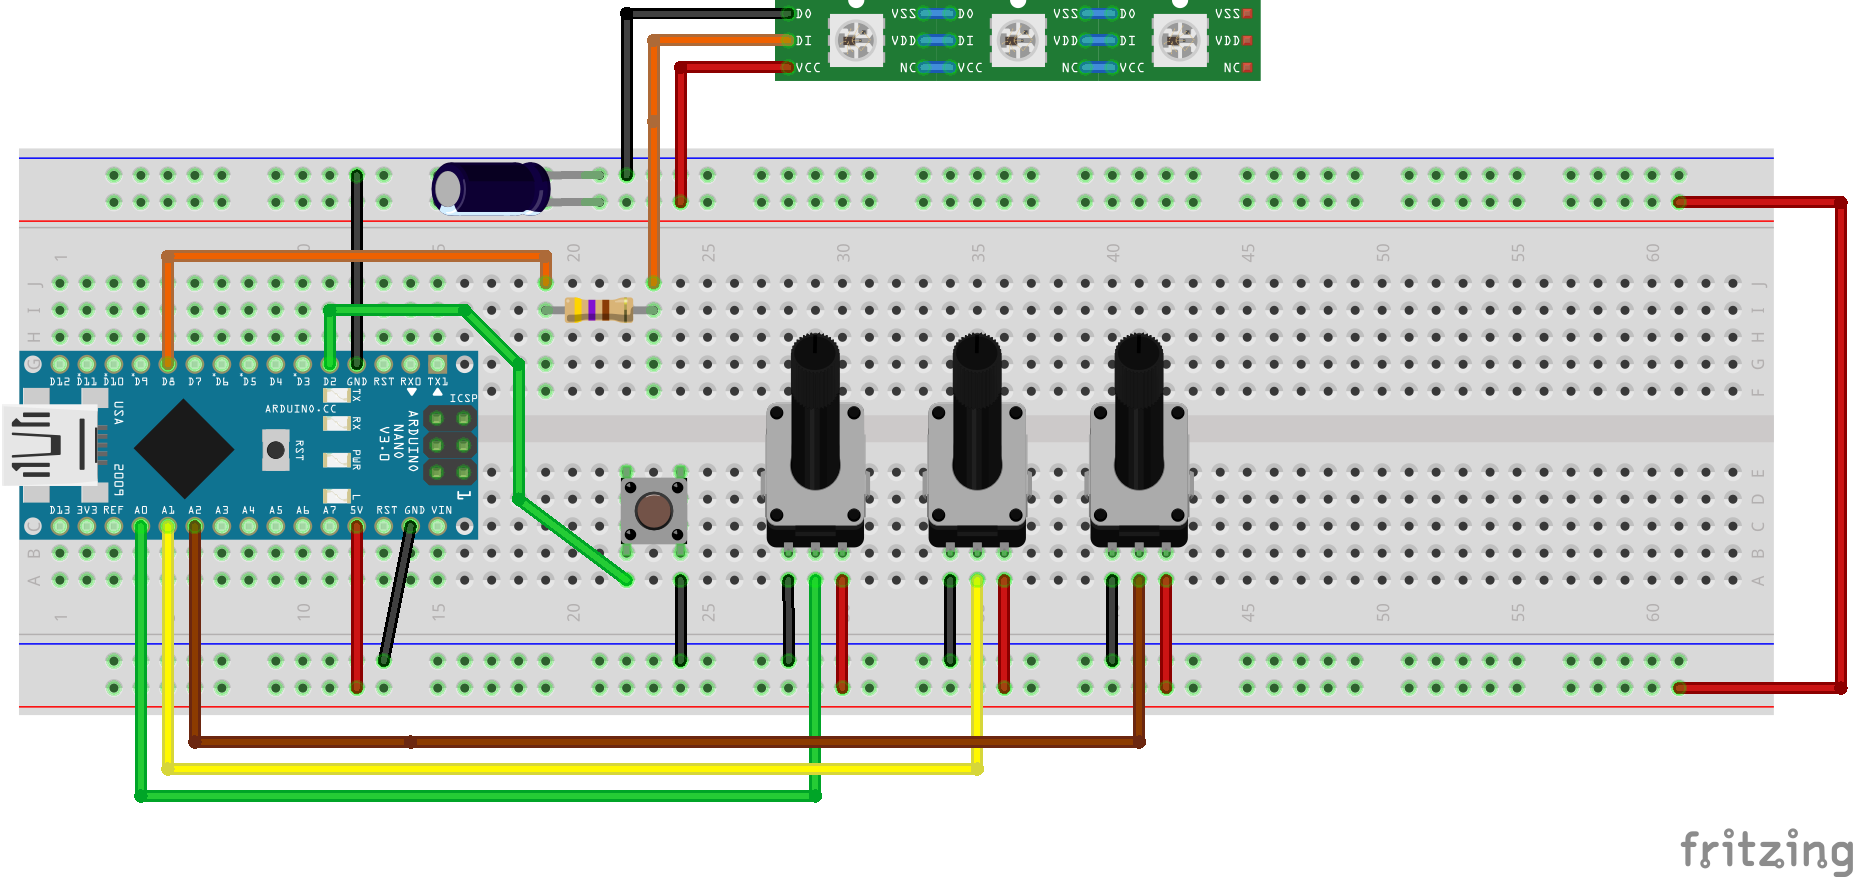
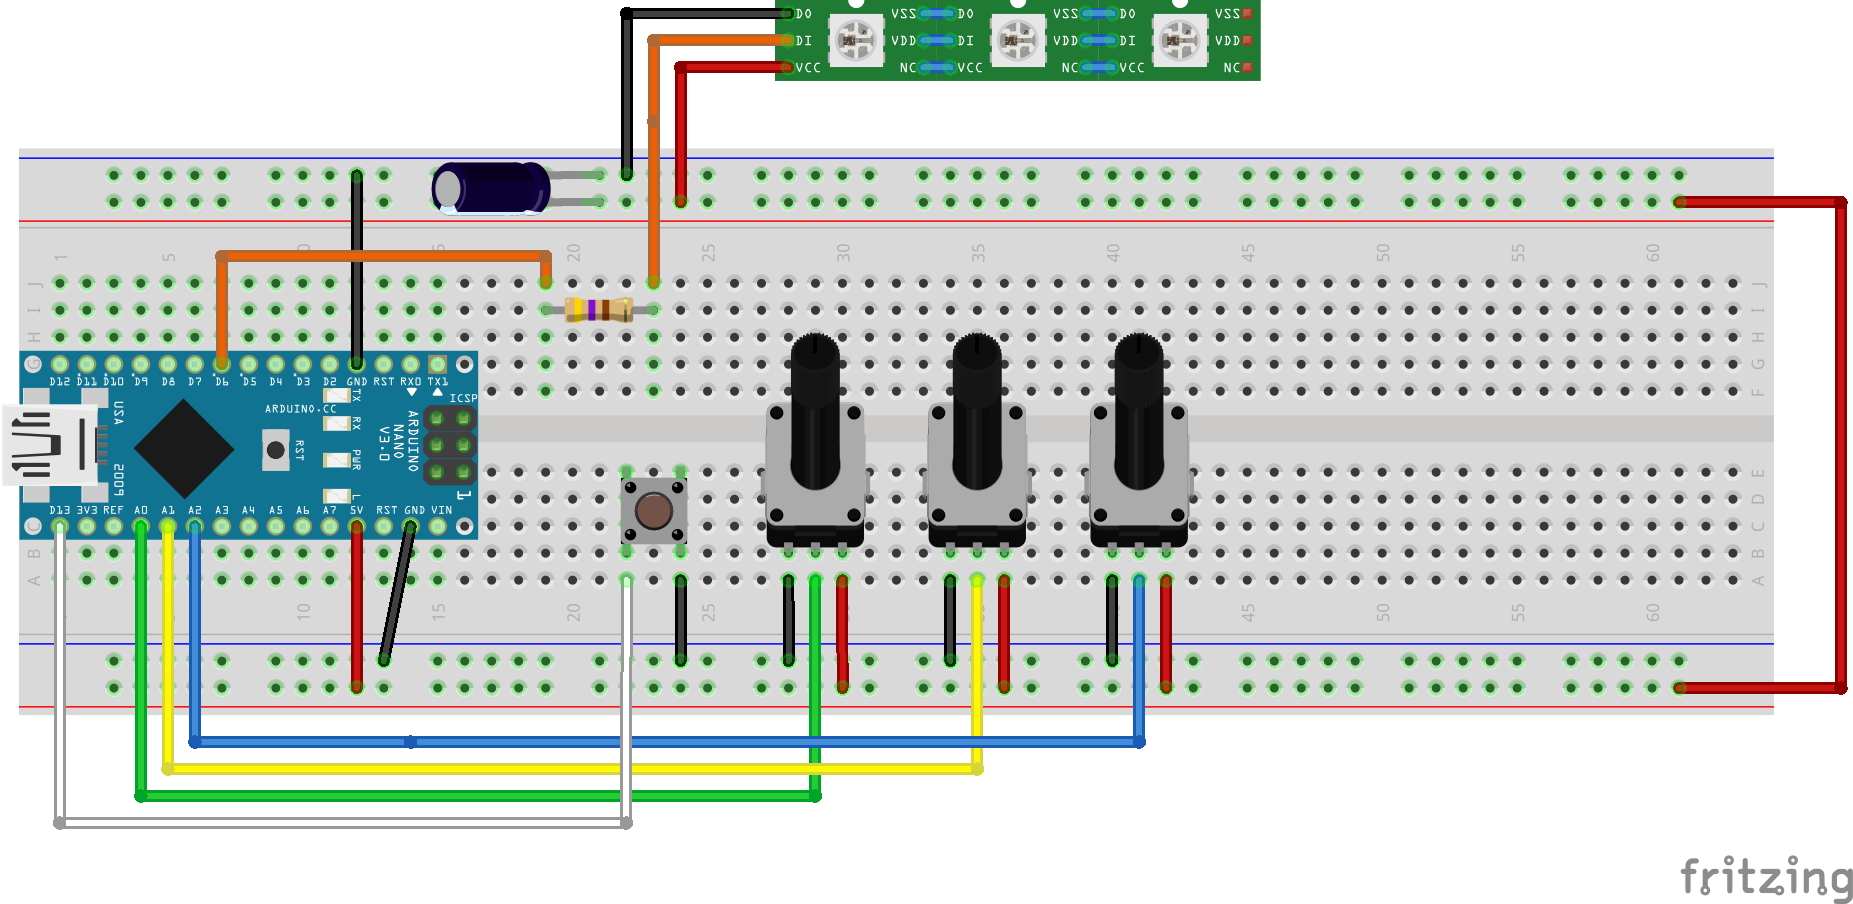
Moved button to pin 13 so all inputs are on the same side

Changed region(s): [[0.0, 0.1539, 1.0, 0.9236], [0.3384, 0.0, 0.6767, 0.0924], [0.9536, 0.9544, 0.9843, 0.9852]]

diff --git a/src/main.cpp b/src/main.cpp
@@ -6,9 +6,9 @@
 #define LED_COUNT 12
 
 // Button configuration
-#define BUTTON_PIN 2
+#define BUTTON_PIN 13
 
-// Potentiometer configuration
+// Potentiometer configuration+
 #define POT_PIN_BRIGHTNESS A0
 #define POT_PIN_HUE A1
 #define POT_PIN_SPEED A2
@@ -28,7 +28,8 @@ unsigned long debounceDelay = 50;
 uint8_t readBrightnessFromPot()
 {
   // Multiple dummy reads to fully settle ADC when switching pins
-  for (int i = 0; i < 3; i++) {
+  for (int i = 0; i < 3; i++)
+  {
     analogRead(POT_PIN_BRIGHTNESS);
   }
   delayMicroseconds(100);
@@ -49,7 +50,8 @@ uint8_t readBrightnessFromPot()
 uint16_t readHueFromPot()
 {
   // Multiple dummy reads to fully settle ADC when switching pins
-  for (int i = 0; i < 3; i++) {
+  for (int i = 0; i < 3; i++)
+  {
     analogRead(POT_PIN_HUE);
   }
   delayMicroseconds(100);
@@ -70,7 +72,8 @@ uint16_t readHueFromPot()
 uint16_t readSpeedFromPot()
 {
   // Multiple dummy reads to fully settle ADC when switching pins
-  for (int i = 0; i < 3; i++) {
+  for (int i = 0; i < 3; i++)
+  {
     analogRead(POT_PIN_SPEED);
   }
   delayMicroseconds(100);
@@ -118,37 +121,50 @@ void whiteLight()
   // Point 7 (1023): Very cool daylight (201, 226, 255)
   uint8_t r, g, b;
 
-  if (warmth < 146) {
+  if (warmth < 146)
+  {
     // Very warm to warm amber (0-146)
     r = 255;
     g = map(warmth, 0, 146, 147, 169);
     b = map(warmth, 0, 146, 41, 87);
-  } else if (warmth < 292) {
+  }
+  else if (warmth < 292)
+  {
     // Warm amber to warm (146-292)
     r = 255;
     g = map(warmth, 146, 292, 169, 197);
     b = map(warmth, 146, 292, 87, 143);
-  } else if (warmth < 438) {
+  }
+  else if (warmth < 438)
+  {
     // Warm to soft warm (292-438)
     r = 255;
     g = map(warmth, 292, 438, 197, 214);
     b = map(warmth, 292, 438, 143, 170);
-  } else if (warmth < 585) {
+  }
+  else if (warmth < 585)
+  {
     // Soft warm to warm white (438-585)
     r = 255;
     g = map(warmth, 438, 585, 214, 241);
     b = map(warmth, 438, 585, 170, 224);
-  } else if (warmth < 731) {
+  }
+  else if (warmth < 731)
+  {
     // Warm white to slightly cool (585-731)
     r = map(warmth, 585, 731, 255, 245);
     g = map(warmth, 585, 731, 241, 243);
     b = map(warmth, 585, 731, 224, 255);
-  } else if (warmth < 877) {
+  }
+  else if (warmth < 877)
+  {
     // Slightly cool to cool (731-877)
     r = map(warmth, 731, 877, 245, 225);
     g = map(warmth, 731, 877, 243, 235);
     b = 255;
-  } else {
+  }
+  else
+  {
     // Cool to very cool (877-1023)
     r = map(warmth, 877, 1023, 225, 201);
     g = map(warmth, 877, 1023, 235, 226);
@@ -214,7 +230,7 @@ void solidHue()
   uint32_t c = strip.ColorHSV(hue, 255, 255);
 
   // Optional: gamma correction makes colors look nicer to the eye
-  //c = strip.gamma32(c);
+  // c = strip.gamma32(c);
 
   strip.setBrightness(brightness);
 
@@ -415,14 +431,26 @@ void fireEffect()
     Serial.print(" -> Palette ");
     Serial.print(palette);
     Serial.print(" (");
-    switch(palette)
+    switch (palette)
     {
-      case 0: Serial.print("Classic Fire"); break;
-      case 1: Serial.print("Hot Fire"); break;
-      case 2: Serial.print("Toxic Fire"); break;
-      case 3: Serial.print("Purple Fire"); break;
-      case 4: Serial.print("Ice Fire"); break;
-      case 5: Serial.print("Inferno"); break;
+    case 0:
+      Serial.print("Classic Fire");
+      break;
+    case 1:
+      Serial.print("Hot Fire");
+      break;
+    case 2:
+      Serial.print("Toxic Fire");
+      break;
+    case 3:
+      Serial.print("Purple Fire");
+      break;
+    case 4:
+      Serial.print("Ice Fire");
+      break;
+    case 5:
+      Serial.print("Inferno");
+      break;
     }
     Serial.print(") | Speed pot: ");
     Serial.print(rawSpeed);
@@ -438,38 +466,38 @@ void fireEffect()
   // Each palette has 3 colors: inner (bottom), middle, outer (top)
   uint16_t innerHue, middleHue, outerHue;
 
-  switch(palette)
+  switch (palette)
   {
-    case 0: // Classic Fire: Red → Orange → Yellow
-      innerHue = 0;        // Red
-      middleHue = 5461;    // Orange (30°)
-      outerHue = 10923;    // Yellow (60°)
-      break;
-    case 1: // Hot Fire: Orange → Yellow → White-ish
-      innerHue = 5461;     // Orange
-      middleHue = 10923;   // Yellow
-      outerHue = 16384;    // Yellow-white
-      break;
-    case 2: // Toxic Fire: Green → Cyan → Blue
-      innerHue = 21845;    // Green (120°)
-      middleHue = 32768;   // Cyan (180°)
-      outerHue = 43691;    // Blue (240°)
-      break;
-    case 3: // Purple Fire: Purple → Magenta → Pink
-      innerHue = 49152;    // Purple (270°)
-      middleHue = 54613;   // Magenta (300°)
-      outerHue = 60075;    // Pink (330°)
-      break;
-    case 4: // Ice Fire: Blue → Cyan → White-ish
-      innerHue = 43691;    // Blue (240°)
-      middleHue = 32768;   // Cyan (180°)
-      outerHue = 16384;    // Light cyan
-      break;
-    case 5: // Inferno: Dark Red → Red → Orange
-      innerHue = 60000;    // Dark red/maroon
-      middleHue = 0;       // Red
-      outerHue = 5461;     // Orange
-      break;
+  case 0:             // Classic Fire: Red → Orange → Yellow
+    innerHue = 0;     // Red
+    middleHue = 5461; // Orange (30°)
+    outerHue = 10923; // Yellow (60°)
+    break;
+  case 1:              // Hot Fire: Orange → Yellow → White-ish
+    innerHue = 5461;   // Orange
+    middleHue = 10923; // Yellow
+    outerHue = 16384;  // Yellow-white
+    break;
+  case 2:              // Toxic Fire: Green → Cyan → Blue
+    innerHue = 21845;  // Green (120°)
+    middleHue = 32768; // Cyan (180°)
+    outerHue = 43691;  // Blue (240°)
+    break;
+  case 3:              // Purple Fire: Purple → Magenta → Pink
+    innerHue = 49152;  // Purple (270°)
+    middleHue = 54613; // Magenta (300°)
+    outerHue = 60075;  // Pink (330°)
+    break;
+  case 4:              // Ice Fire: Blue → Cyan → White-ish
+    innerHue = 43691;  // Blue (240°)
+    middleHue = 32768; // Cyan (180°)
+    outerHue = 16384;  // Light cyan
+    break;
+  case 5:             // Inferno: Dark Red → Red → Orange
+    innerHue = 60000; // Dark red/maroon
+    middleHue = 0;    // Red
+    outerHue = 5461;  // Orange
+    break;
   }
 
   // Draw fire on each LED
@@ -480,7 +508,7 @@ void fireEffect()
 
     // Select color based on position
     uint16_t hue;
-    uint8_t sat = 255;  // Full saturation by default
+    uint8_t sat = 255; // Full saturation by default
 
     if (position < 0.33)
     {

diff --git a/CLAUDE.MD b/CLAUDE.MD
@@ -18,7 +18,7 @@ This document provides technical context for AI assistants (like Claude Code) wo
   - **470Ω Resistor**: Between Pin 6 and LED data line (signal protection)
   - **Capacitor (220µF-1000µF)**: Across LED strip 5V/GND (power stability, prevents brownouts)
     - 220µF-470µF suitable for ≤12 LEDs; 1000µF for larger setups/longer wires
-- **Button**: Pin 2 with internal pull-up (active LOW)
+- **Button**: Pin 13 with internal pull-up (active LOW)
 - **Potentiometers** (all 10kΩ):
   - A0: Brightness (0-1023 → 0-255)
   - A1: Hue/Warmth (0-1023 → 0-65535 or RGB values)
@@ -346,7 +346,7 @@ This project evolved through these key stages:
 | Component | Pin | Direction | Notes |
 |-----------|-----|-----------|-------|
 | NeoPixel Data | D6 | Output | Via 470Ω resistor; PWM capable, but not used for PWM |
-| Button | D2 | Input | Pull-up enabled, active LOW |
+| Button | D13 | Input | Pull-up enabled, active LOW |
 | Brightness Pot | A0 | Input | Analog 0-1023 |
 | Hue Pot | A1 | Input | Analog 0-1023 |
 | Speed Pot | A2 | Input | Analog 0-1023, inverted mapping (low=slow) |

diff --git a/README.md b/README.md
@@ -83,7 +83,7 @@ reverse GND/5V if you prefer the opposite direction._
 ### Push Button
 
 ```
-Button Pin 1 → Arduino Pin 2
+Button Pin 1 → Arduino Pin 13
 Button Pin 2 → GND
 ```
 
@@ -237,7 +237,7 @@ Button pressed! Switching to effect 1: White Light
 ```cpp
 #define LED_PIN 6           // NeoPixel data pin
 #define LED_COUNT 12        // Number of LEDs in strip
-#define BUTTON_PIN 2        // Button pin
+#define BUTTON_PIN 13       // Button pin
 #define POT_PIN_BRIGHTNESS A0   // Brightness pot
 #define POT_PIN_HUE A1          // Hue/warmth pot
 #define POT_PIN_SPEED A2        // Speed pot
@@ -304,8 +304,8 @@ etc.):
 
 ### Button not working
 
-- Check wiring: One side to Pin 2, other to GND
-- Test by shorting Pin 2 to GND manually
+- Check wiring: One side to Pin 13, other to GND
+- Test by shorting Pin 13 to GND manually
 - Replace button if faulty
 - Check Serial Monitor for button press messages
 
